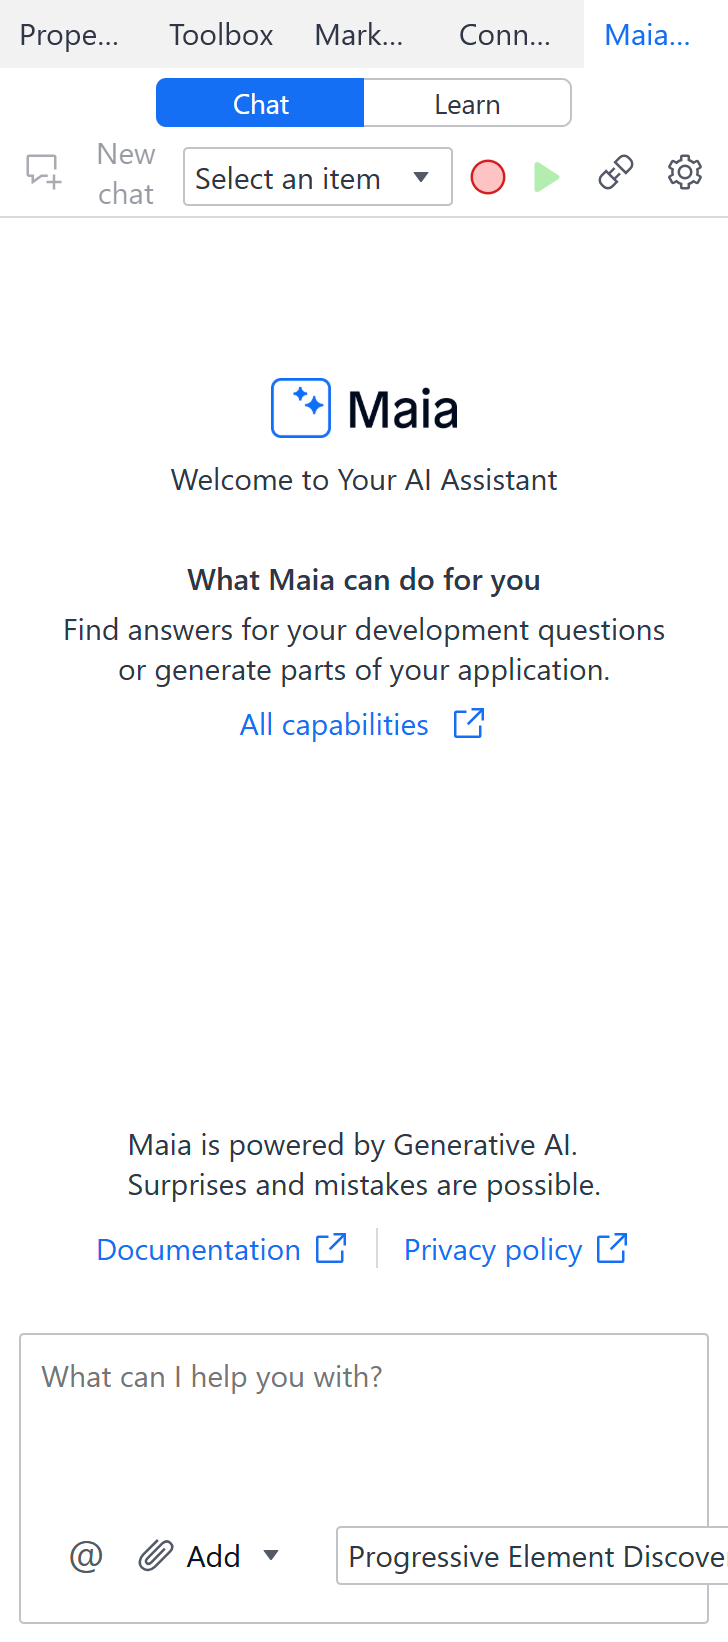
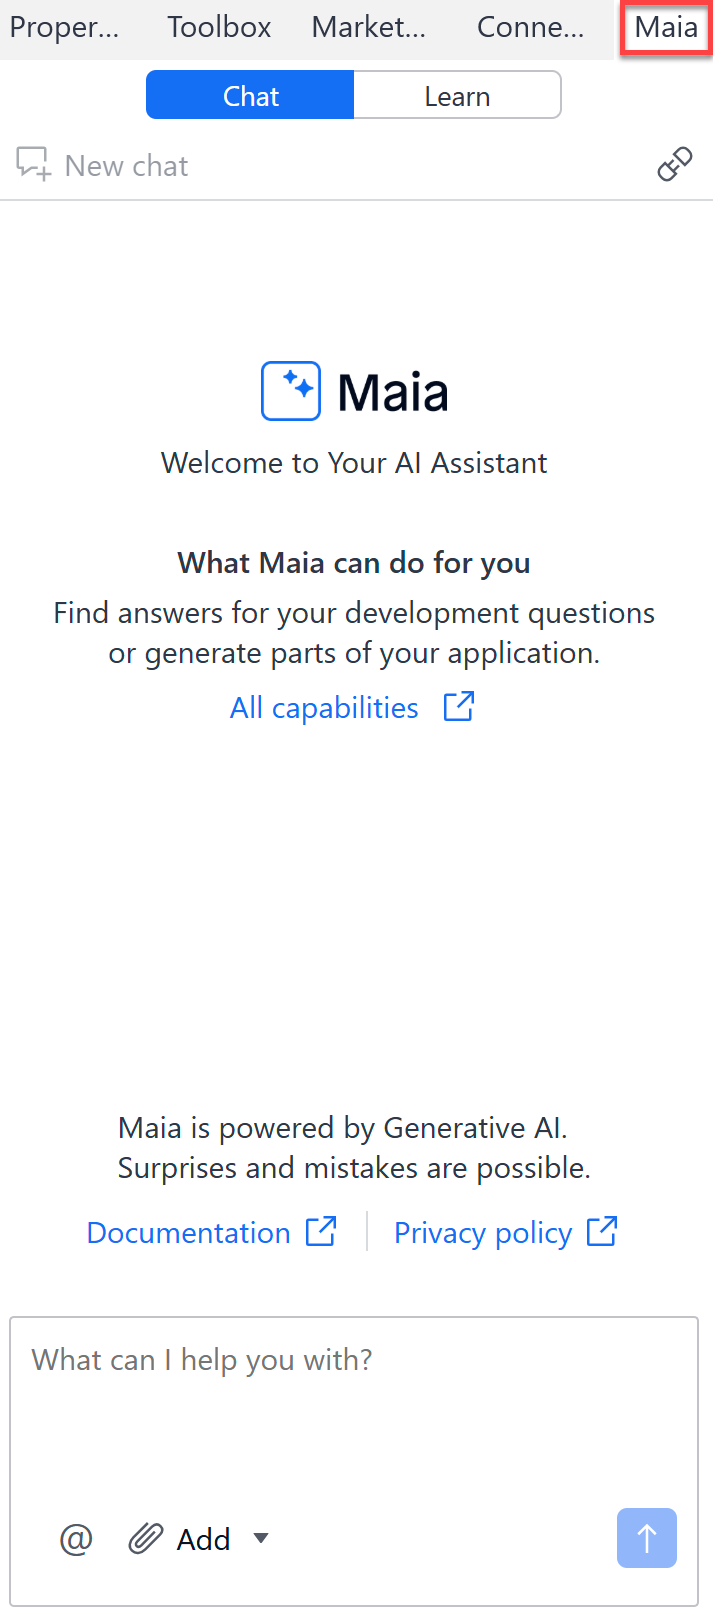
Maia Make interface screenshot update

diff --git a/content/en/docs/refguide/modeling/mendix-ai-assistance/maia-make/_index.md b/content/en/docs/refguide/modeling/mendix-ai-assistance/maia-make/_index.md
@@ -35,11 +35,9 @@ The key capabilities of the Maia Make are as follows:
 
 Maia Make is enabled by default. You can disable it in Studio Pro **Preferences**, via the **Maia** tab.
 
-To access it, in the upper-right corner of Studio Pro, click the **Maia** pane:
+To access the conversational interface, in the upper-right corner of Studio Pro, click the **Maia** pane:
 
 {{< figure src="/attachments/refguide/modeling/mendix-ai-assistance/maia-make/maia-make-interface.png" max-width=40% alt="Maia Make interface" >}}
-
-{{% todo %}}Update the screenshot when the latest build is available{{% /todo %}}
 
 Alternatively, you can also click **View** at the Studio Pro top bar and select **Maia** to open the interface.
 
@@ -52,9 +50,9 @@ Under the **Maia** pane, there is also the **Learn** tab. It is a separate Maia 
 The Maia Make conversational interface includes the following options:
 
 * **New chat** - It allows you to clear the messages and start a new conversation which does not reference your current chat.
-* **Configure MCP Connections** ({{% icon name="plug" %}}) icon - It allows you to connect external [MCP](https://modelcontextprotocol.io/introduction) servers to Maia, giving it access to third-party tools during chat. For more information on how to configure MCP connections, see [Maia MCP Client](/refguide/maia-mcp/).
-* **Add** attachments (Image, Story, PDF) - With this option, you can attach images, PDFs, or user stories to help Maia understand your requirements better.
-* **Add to Maia Context** - It allows you to add certain logic or pages to Maia as context. You can also access this option by right-clicking the documents (microflows or pages) in the **App Explorer** and it appears in the context menu.
+* **Configure MCP Connections** ({{% icon name="plug" %}} icon) - It allows you to connect external [MCP](https://modelcontextprotocol.io/introduction) servers to Maia, giving it access to third-party tools during chat. For more information on how to configure MCP connections, see [Maia MCP Client](/refguide/maia-mcp/).
+* **{{% icon name="paperclip" %}} Add** (Image, Story, PDF) - With this option, you can attach images, PDFs, or user stories to help Maia understand your requirements better.
+* **Add file to Maia Chat** (@ icon) - It allows you to add certain logic or pages to Maia as context. You can also access this option by right-clicking the documents (microflows or pages) in the **App Explorer** and it appears in the context menu.
 
 For more information on how some of Maia key capabilities work, refer to the following documents:
 
